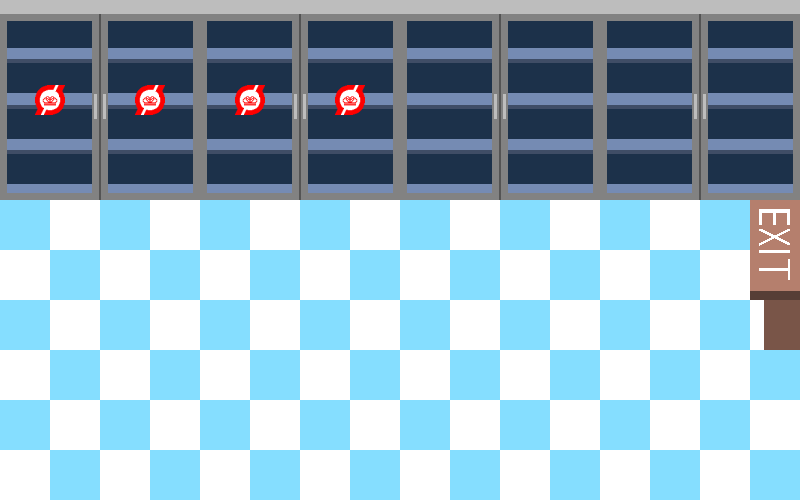
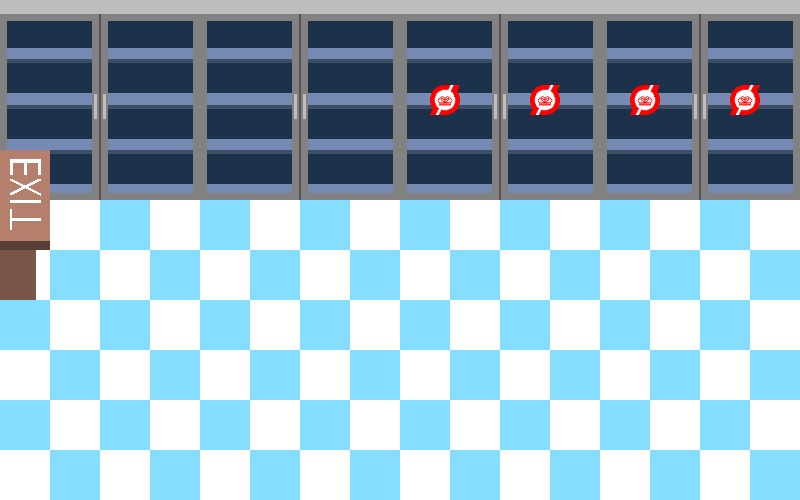
changed backgrounds

diff --git a/src/main/java/worldofzuul/DomainLayer/ContentGenerator.java b/src/main/java/worldofzuul/DomainLayer/ContentGenerator.java
@@ -307,8 +307,8 @@ public class ContentGenerator {
         dairy = new Room("in the dairy section\nTo your west is the 1st aisle", 10,5, getBackground("dairy.png"));// ContentGenerator.getDairyItems());
         bakery = new Room("at the bakery\nTo your east is the 1st aisle", 10,6, getBackground("bakery.png"));//, ContentGenerator.getBakeryItems());
         frozen = new Room("in the frozen section. \nTo your west is aisle 2", 8,6, getBackground("frost.png"));//, ContentGenerator.getFrozenItems());
-        tinnedGoods = new Room("in the tinned goods section. \nTo your east is aisle 2", 8,6, getBackground("ping.png"));//, ContentGenerator.getTinnedGoodsItems());
-        produce = new Room("at the produce section. \nTo your west is the 3. aisle", 8,6, getBackground("ping.png"));//, ContentGenerator.getProduceItems());
+        tinnedGoods = new Room("in the tinned goods section. \nTo your east is aisle 2", 8,6, getBackground("dried.png"));//, ContentGenerator.getTinnedGoodsItems());
+        produce = new Room("at the produce section. \nTo your west is the 3. aisle", 8,6, getBackground("produce.png"));//, ContentGenerator.getProduceItems());
         butcher = new Room("at the butcher. \nTo your east is the 3. aisle", 8,6, getBackground("butcher.png"));//, ContentGenerator.getButcherItems());
         cashier = new Room("at the cashier.\nUse command 'checkout' to checkout and finish the game ", 6,4, getBackground("cashier.png"));
         cashier.setCanCheckout(true);
